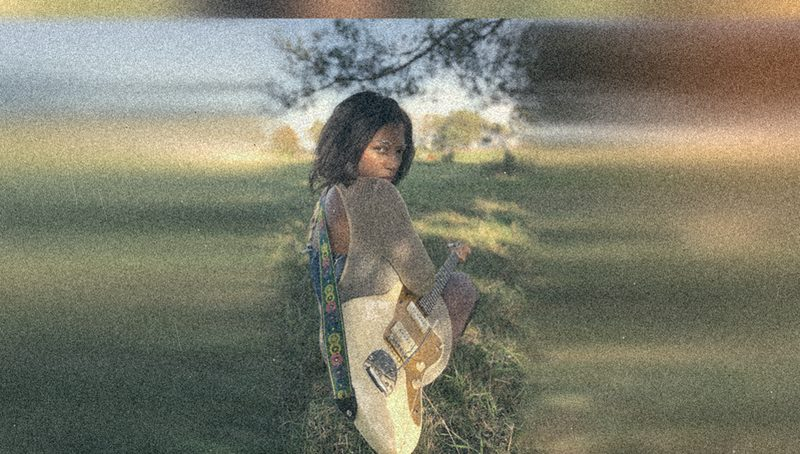
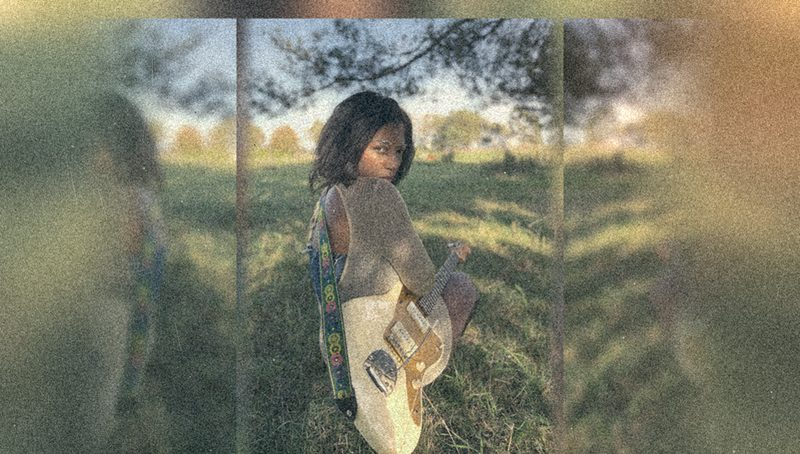
Cloud photo: back to the first widened version (mirrored, dreamy sides)
Claude-Session: https://claude.ai/code/session_016E4R3qZYi1M4cVPC84uyUX

diff --git a/tools/make-cloud-photo.py b/tools/make-cloud-photo.py
@@ -11,44 +11,30 @@ por = im.resize((pw, ph), Image.LANCZOS)
 x0 = (W - pw) // 2
 y0 = H - ph
 
-# 2) Background beyond the photo's edges: the photo's outermost columns
-#    stretched outwards, getting softer the further they go (the grass and
-#    sky simply carry on, out of focus, like the photo's own background).
-canvas = ImageOps.fit(im, (W, H), Image.LANCZOS, centering=(0.5, 0.55)).filter(ImageFilter.GaussianBlur(45))
-F = 110  # feather width where the photo blends into its extension
-side = x0 + F
-edge = int(pw * 0.035)
-def extend(strip_img, width, flip):
-    smear = strip_img.resize((width, ph), Image.BICUBIC)
-    near = np.asarray(smear.filter(ImageFilter.GaussianBlur(4))).astype(np.float32)
-    far = np.asarray(smear.filter(ImageFilter.GaussianBlur(28))).astype(np.float32)
-    t = np.linspace(0, 1, width)[None, :, None]  # 0 at the photo, 1 far out
-    if flip:
-        t = t[:, ::-1]
-    mix = near * (1 - t) + far * t
-    return Image.fromarray(mix.clip(0, 255).astype(np.uint8))
-left_src = ImageOps.mirror(por.crop((0, 0, edge, ph)))
-right_src = ImageOps.mirror(por.crop((pw - edge, 0, pw, ph)))
-canvas.paste(extend(left_src, side, True), (0, y0))
-canvas.paste(extend(right_src, side, False), (x0 + pw - F, y0))
+# 2) Background beyond the photo's edges: a blurred, stretched copy of the
+#    photo, with the photo's own left and right halves mirrored outwards on
+#    top of it (a dreamy, double-exposed look at the sides).
+bg = ImageOps.fit(im, (W, H), Image.LANCZOS, centering=(0.5, 0.55)).filter(ImageFilter.GaussianBlur(40))
+canvas = bg.copy()
+strip = int(pw * 0.5)
+left = ImageOps.mirror(por.crop((0, 0, strip, ph)))
+right = ImageOps.mirror(por.crop((pw - strip, 0, pw, ph)))
+def soft(img, fade_from_right):
+    a = np.linspace(0, 1, img.width) if fade_from_right else np.linspace(1, 0, img.width)
+    a = np.clip(a * 1.6, 0, 1) ** 1.2
+    mask = Image.fromarray((np.tile(a, (img.height, 1)) * 255).astype(np.uint8))
+    return img.filter(ImageFilter.GaussianBlur(6)), mask
+li, lm = soft(left, True)   # fades out towards the far left
+ri, rm = soft(right, False) # fades out towards the far right
+canvas.paste(li, (x0 - strip, y0), lm)
+canvas.paste(ri, (x0 + pw, y0), rm)
 # 3) The photo itself, edges feathered into the extended background.
 a = np.ones((ph, pw), np.float32)
-f = F
-ramp = np.linspace(0, 1, f) ** 1.5
+f = int(pw * 0.06)
+ramp = np.linspace(0, 1, f)
 a[:, :f] *= ramp
 a[:, -f:] *= ramp[::-1]
 canvas.paste(por, (x0, y0), Image.fromarray((a * 255).astype(np.uint8)))
-# Soften the seam: the picture goes gradually out of focus from the outer
-# fifth of the photo outwards, like a shallow depth of field.
-soft = np.asarray(canvas.filter(ImageFilter.GaussianBlur(9))).astype(np.float32)
-sharp = np.asarray(canvas).astype(np.float32)
-xs = np.arange(W)
-cx = W / 2
-inner = pw * 0.30
-outer = pw * 0.5 + 90
-m = np.clip((np.abs(xs - cx) - inner) / (outer - inner), 0, 1) ** 1.3
-m = m[None, :, None]
-canvas = Image.fromarray((sharp * (1 - m) + soft * m).clip(0, 255).astype(np.uint8))
 
 # 4) Old-film treatment over the whole thing.
 img = canvas.resize((int(W * 0.5), int(H * 0.5)), Image.LANCZOS).resize((W, H), Image.BICUBIC)
